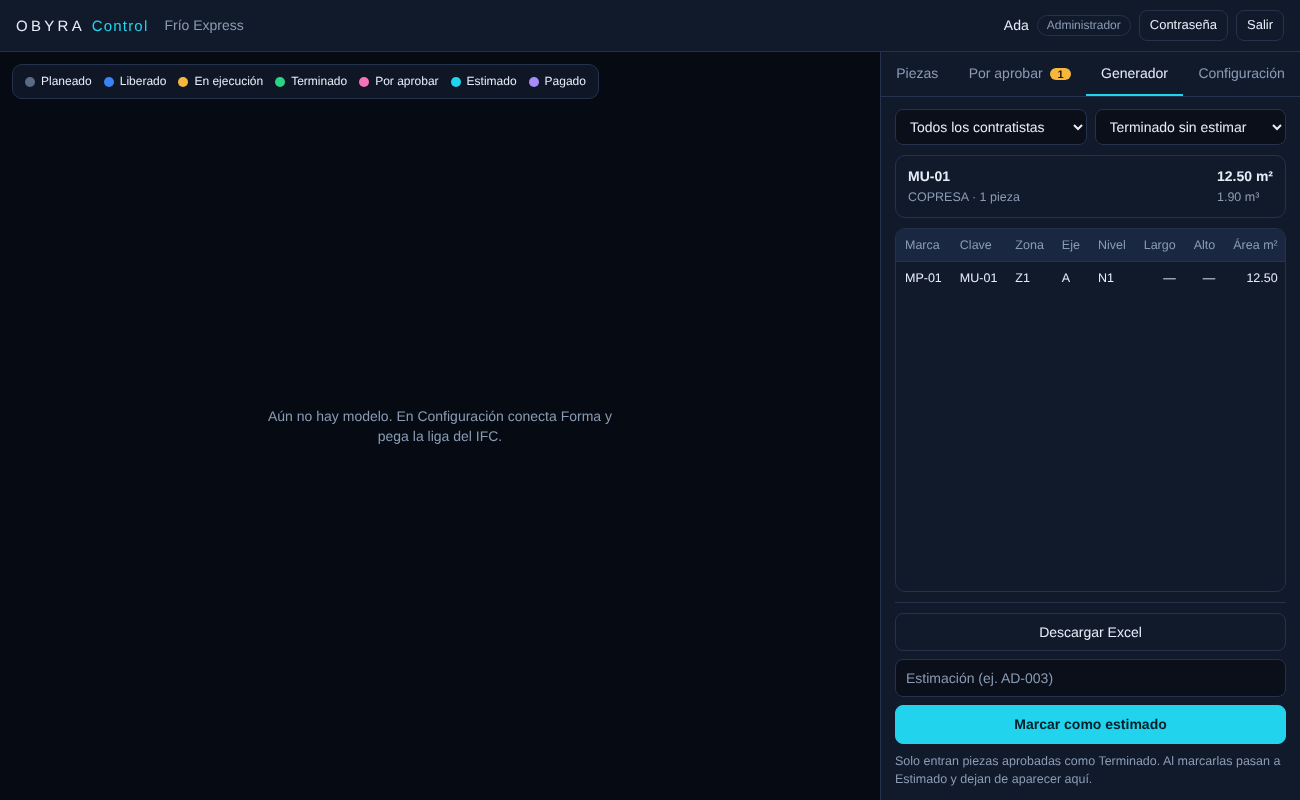
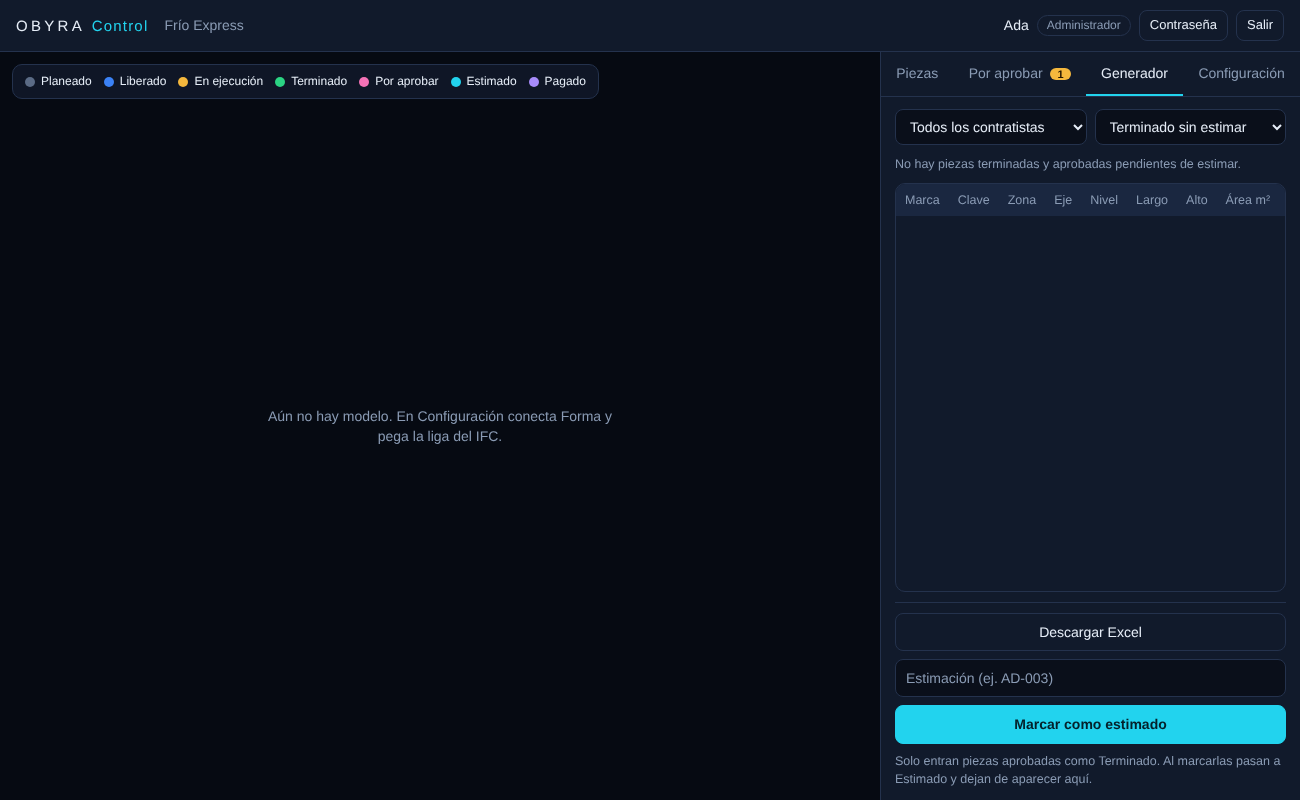
Piezas: el modelo sigue los filtros de la lista
Contratista, estatus, estimación y búsqueda definen qué piezas se ven en el
modelo, igual que en el generador.

Claude-Session: https://claude.ai/code/session_016C4SN1LCdYAxZtzhnanQV2

Changed region(s): [[0.6769, 0.1875, 0.9846, 0.3125], [0.9538, 0.3438, 0.9846, 0.375], [0.7385, 0.3438, 0.7692, 0.375]]

diff --git a/public/app.js b/public/app.js
@@ -146,8 +146,8 @@
       if (name === "aprobar") renderAprobar();
       if (name === "admin") loadUsers();
       var antes = S.tab; S.tab = name;
-      // El modelo muestra lo mismo que el generador; al salir de esa pestaña vuelve a mostrar todas las piezas.
-      if (name === "generador" || antes === "generador") paintModel(true);
+      // Piezas y Generador muestran en el modelo lo mismo que su lista; las demás pestañas, todas las piezas.
+      if (antes !== name) paintModel(name === "piezas" || name === "generador");
       try { localStorage.setItem("ctrl_tab", name); } catch (e) { /* sin almacenamiento */ }
     }
     tabs.forEach(function (t) { t.addEventListener("click", function () { open(t.getAttribute("data-tab")); }); });
@@ -257,8 +257,8 @@
     updateSel();
   }
 
-  ["f-contratista", "f-estatus", "f-estnum"].forEach(function (id) { if ($(id)) $(id).addEventListener("change", renderLista); });
-  $("f-buscar").addEventListener("input", renderLista);
+  ["f-contratista", "f-estatus", "f-estnum"].forEach(function (id) { if ($(id)) $(id).addEventListener("change", function () { renderLista(); paintModel(true); }); });
+  $("f-buscar").addEventListener("input", function () { renderLista(); paintModel(false); });
   $("sel-all").addEventListener("change", function () {
     var list = filtradas();
     if ($("sel-all").checked) list.forEach(function (g) { S.sel.add(g); }); else S.sel.clear();
@@ -648,14 +648,14 @@
     return new THREE.Vector4(((n >> 16) & 255) / 255, ((n >> 8) & 255) / 255, (n & 255) / 255, 1);
   }
   // Colorea cada pieza por su estatus y deja en gris translúcido lo que no está en seguimiento.
-  // En la pestaña Generador solo se ven las piezas de la tabla (mismo contratista y vista);
-  // en las demás, todas las piezas en seguimiento.
+  // En Piezas y Generador solo se ven las piezas de su lista (según sus filtros);
+  // en las demás pestañas, todas las piezas en seguimiento.
   function paintModel(encuadrar) {
     var v = S.viewer, m = S.model;
     if (!v || !m || !S.guid2db.size) return;
     v.clearThemingColors(m);
     var ids = [];
-    var visibles = S.tab === "generador" ? genFilas() : Object.keys(S.piezas);
+    var visibles = S.tab === "generador" ? genFilas() : S.tab === "piezas" ? filtradas() : Object.keys(S.piezas);
     visibles.forEach(function (g) {
       var id = S.guid2db.get(g);
       if (id == null) return;
@@ -665,8 +665,8 @@
     if (ids.length) {
       v.isolate(ids, m);
       if (encuadrar) v.fitToView(ids, m);
-    } else if (S.tab === "generador") {
-      v.isolate([], m); v.hide(m.getRootId(), m); // tabla vacía: modelo vacío
+    } else if (Object.keys(S.piezas).length && (S.tab === "generador" || S.tab === "piezas")) {
+      v.isolate([], m); v.hide(m.getRootId(), m); // filtro sin piezas: modelo vacío
     } else {
       v.showAll();
     }
